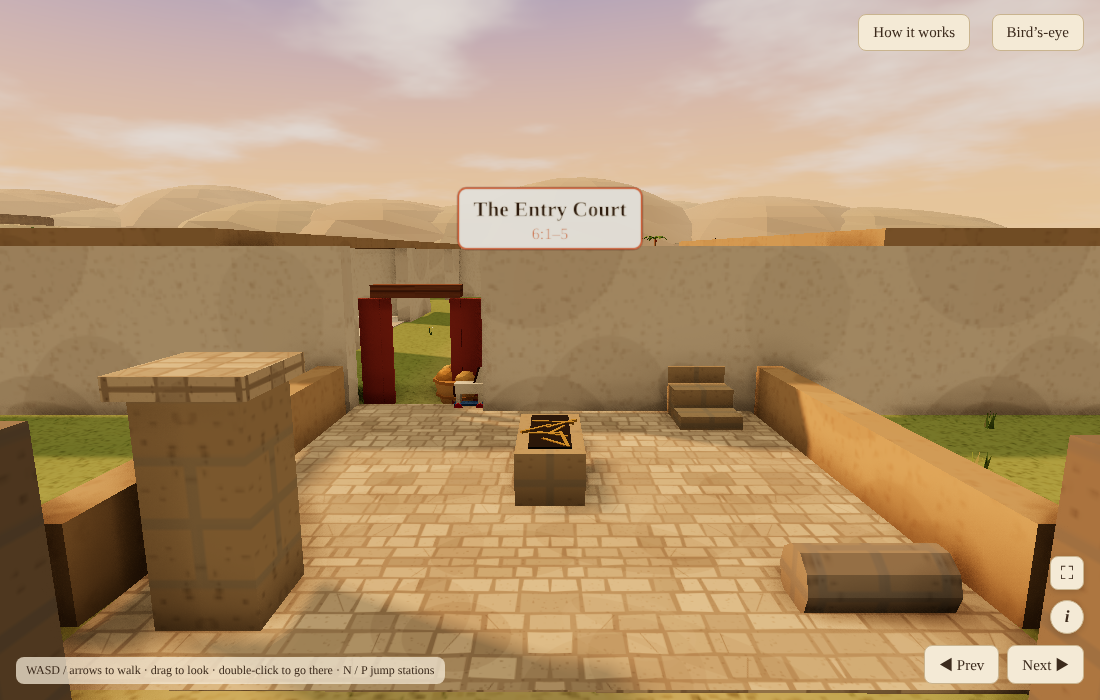
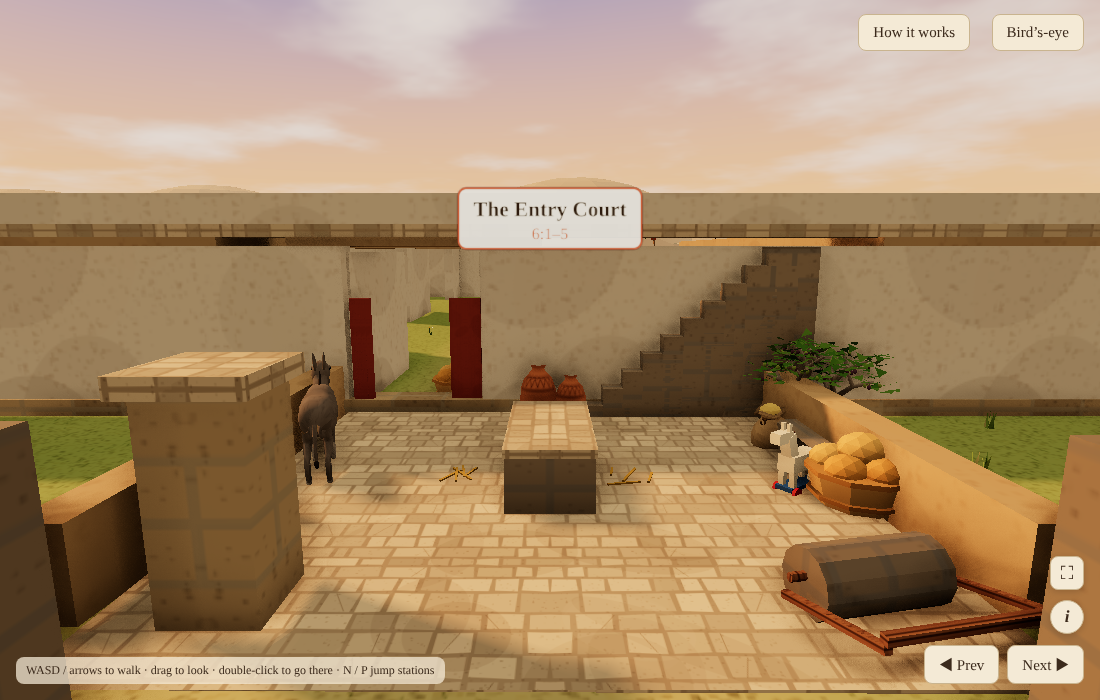
som-ltm: entry court rebuilt after room critic round 1 (house front, roof stair, donkey, manger, roller)
Claude-Session: https://claude.ai/code/session_011GTaBjBmrRYMxR8CbFEKPF

diff --git a/som-ltm/world/farm.js b/som-ltm/world/farm.js
@@ -39,14 +39,26 @@ const HOUSE_ROOFS = [];
 }
 // ---- 6.1 THE COURTYARD (6:1–5): gate pier · curtained doorway · stair to the roof · roof-roller · cistern lid ----
 defBuilder('som.court', (r, { ch }) => { const F = roomFrame(r), h = 2.6, sp = SQ(h).map(([f, s]) => F.at(f, s)), out = [];
+  // the paved court in front of the farmhouse; the house front is the farmhouse's north wall (f = 3.4), its door at s = -3.6 … -1.2
+  const stoneT = mat('somCourtStone', '#a39a8a'); stoneT.map = TEX.stone;
   { const g = atR(F, 0, 0); box(2 * h + 2, .08, 2 * h + 2, paleM, 0, 0, 0, g); }                                      // the paving
-  { const g = atR(F, -h, -h); box(.8, 1.9, .8, dryStone, 0, 0, 0, g); box(1, .18, 1, paleM, 0, 1.9, 0, g); out.push(ground(sp[0], 2.2)); }   // the gate's left pier, squared, with its cap
+  { const g = atR(F, -h, -h); box(.8, 1.9, .8, dryStone, 0, 0, 0, g); box(1, .18, 1, paleM, 0, 1.9, 0, g); out.push(ground(sp[0], 2.2)); }   // 1: the gate's left pier, squared, with its cap
   { for (const sd of [-1, 1]) { const g = atR(F, .4, sd * (h + 1.3)); box(.45, .9, 2 * h + 1.4, mudM, 0, 0, 0, g); } }   // low walls closing the court on either side
-  { const g = atR(F, h + .8, -h + .2); for (let k = 0; k < 6; k++) box(.2, 2, .06 + (k % 2) * .05, mat('somCurtain', '#a8523a'), (k < 3 ? -1.05 : .65) + (k % 3) * .2, .05, -.4 + k % 2 * .03, g); box(1.6, .22, .36, 'wood', 0, 2.1, -.15, g); out.push(ground(F.at(h + .45, -h + .2), .25)); }   // the doorway into the house, its curtain hanging
-  { const g = atR(F, h + .2, h); for (let k = 0; k < 6; k++) box(1, .3 * (k + 1), .55, dryStone, 0, 0, .5 - k * .55, g); out.push(ground(F.at(h + .2, h), 1.15)); }   // the stair up to the roof
-  { const g = atR(F, -h, h); const c = cyl(.28, .28, 1.2, 10, rockM, 0, .28, 0, g); c.rotation.z = Math.PI / 2; c.position.y = .28; out.push(ground(sp[3], .62)); }   // the roof-roller
-  { const g = atR(F, 0, 0, Math.PI / 2); box(1.6, .7, .8, dryStone, 0, 0, 0, g); box(1.3, .1, .5, darkM, 0, .62, 0, g); for (let k = 0; k < 8; k++) box(R(.3, .6), .03, .04, strawM, R(-.5, .5), .7, R(-.2, .2), g).rotation.y = R(0, 3); out.push({ x: F.x, z: F.z, y: F.y + .85 }); }   // a stone manger for the donkey
-  { const [x, z] = F.at(-h - 1.2, -h - 2.4); libAt('grey-donkey', x, z, F.yaw + 1.2); }   // the donkey by the gate
+  // the house front: a cornice and parapet along the flat roof line, a footing course, a roofed entry passage behind the door
+  { const g = atR(F, 3.4, 0); box(32.6, .22, .8, paleM, 2, 3.15, 0, g); box(32.6, .5, .3, plasterM, 2, 3.37, .25, g); box(32.6, .35, .62, dryStone, 2, -.05, 0, g); }
+  { const [px, pz] = F.at(5.4, -2.4), y = heightAt(px, pz); const pr = box(4.4, .3, 4.2, mat('somRoofEarth', '#b49a72'), px, y + 3, pz); pr.castShadow = true; HOUSE_ROOFS.push(pr);
+    for (const sd of [-3.7, -1.1]) { const [wx, wz] = F.at(5.4, sd); const w = box(.3, 3, 4, plasterM, wx, heightAt(wx, wz) - .1, wz); w.rotation.y = F.yaw; } }   // the dim entry passage you see through the door
+  { const g = atR(F, 3.25, -2.4); const cur = mat('somCurtain', '#a8523a'); cur.map = TEX.cloth; box(.55, 2.05, .05, cur, .9, .05, 0, g); for (let k = 0; k < 4; k++) box(.12, 2.05, .07, cur, -1.05 + k * .08, .05, .05, g).rotation.y = k * .2; cyl(.025, .025, 2.6, 5, 'wood', 0, 2.15, 0, g).rotation.z = Math.PI / 2; box(.12, .08, .1, mat('somCord', '#c8b48a'), -.9, 1.1, .02, g);
+    out.push(ground(F.at(3.0, -2.4), 1.2)); }   // 2: the doorway, its curtain half drawn and tied back on one side
+  { const n = 10; for (let k = 0; k < n; k++) { const [x, z] = F.at(2.95, 1.0 + k * .34); const st = box(.34, .3 * (k + 1), .85, stoneT, x, heightAt(x, z) - .02, z); st.rotation.y = F.yaw + Math.PI / 2; }
+    const [x2, z2] = F.at(2.95, 1.0 + n * .34 + .3); out.push(ground(F.at(2.95, 2.6), 1.7)); }   // 3: the stone stair rising along the house front to the flat roof
+  { const g = atR(F, -h, h, .2); const rm = mat('somRollerStone', '#8e877c'); rm.map = TEX.stone; const c = cyl(.3, .3, 1.15, 12, rm, 0, .3, 0, g); c.rotation.z = Math.PI / 2; c.position.y = .3;
+    for (const sd of [-1, 1]) { cyl(.04, .04, .14, 6, 'wood', sd * .64, .3, 0, g).rotation.z = Math.PI / 2; const arm = box(.06, .06, 1.1, 'wood', sd * .72, .32, .5, g); arm.rotation.x = -.25; } box(1.5, .07, .07, 'wood', 0, .52, 1.02, g); out.push(ground(sp[3], .68)); }   // 4: the stone roof-roller with its wooden handle frame
+  { const g = atR(F, 0, 0, Math.PI / 2); box(2.0, .75, 1.0, stoneT, 0, 0, 0, g); box(1.7, .12, .72, darkM, 0, .66, 0, g); box(2.04, .1, 1.04, paleM, 0, .72, 0, g).scale.set(1, 1, 1); for (let k = 0; k < 14; k++) box(R(.3, .6), .03, .04, strawM, R(-.75, .75), .74, R(-.25, .25), g).rotation.y = R(0, 3); out.push({ x: F.x, z: F.z, y: F.y + .95 }); }   // 5: a big carved stone manger with straw
+  { const [x, z] = F.at(.3, -h - .4); libAt('grey-donkey', x, z, F.yaw + Math.PI / 2, 1); const [tx, tz] = F.at(-.8, -h - .8); cyl(.06, .07, 1.1, 6, 'wood', tx, heightAt(tx, tz), tz); add(new THREE.TorusGeometry(.07, .015, 4, 8), ironM, tx, heightAt(tx, tz) + 1, tz); }   // the donkey tied to a post by the left wall
+  for (const [f, s, id, sc] of [[2.7, -.2, 'big-jar', 1], [2.6, .35, 'big-jar', .85], [1.4, 3.3, 'grain-sack', 1], [-.6, 3.4, 'bread-basket', 1], [2.4, 4.4, 'fig-tree', .8]]) { const [x, z] = F.at(f, s); libAt(id, x, z, R(0, 6), sc); }   // jars by the door, a sack, a basket, a fig tree in the corner
+  { const [x, z] = F.at(.5, 3.55); const b = box(1.8, .45, .45, stoneT, x, heightAt(x, z), z); b.rotation.y = F.yaw + Math.PI / 2; }   // a stone bench against the right wall
+  for (let k = 0; k < 12; k++) { const [x, z] = F.at(R(-.6, .6), R(-1.3, 1.3)); box(R(.2, .5), .02, .03, strawM, x, heightAt(x, z) + .09, z).rotation.y = R(0, 3); }   // straw scattered round the manger
   finishRoom(ch, r, F, out); });
 
 // ---- 6.2 THE INNER STOREROOM (6:6–10): open-fronted, cut into the terrace, its door swung back ----

diff --git a/som-ltm/refs/critic/SPECS.md b/som-ltm/refs/critic/SPECS.md
@@ -70,15 +70,17 @@ Spots are listed in the fixed order. P = a feature of the place itself; O = an o
 - spot 2 far-left: the tower's lookout window (P)
 - spot 3 far-right: the vine trellis (O)
 
-## Room 11: 6.1 The Courtyard (6:1–5) — screenshot: room-11.png
+## Room 11: 6.1 The Entry Court (6:1–5) — screenshot: room-11.png
+A paved court in front of a first-century Galilean farmhouse, seen from the farm's gate.
 - spot 1 near-left: the gate's left pier (P)
-- spot 2 far-left: the curtained doorway into the house (P)
-- spot 3 far-right: the stone stair up to the roof (P)
+- spot 2 far-left: the curtained front doorway into the house (P)
+- spot 3 far-right: the stone stair up to the flat roof (P)
 - spot 4 near-right: the stone roof-roller (O)
-- spot 5 centre: the cistern mouth with its round stone lid (O)
+- spot 5 centre: a stone manger for the donkey (O)
+- other: a donkey tethered by the gate
 
 ## Room 12: 6.2 The Inner Storeroom (6:6–10) — screenshot: room-12.png
-- spot 1 near-left: the doorway's stone threshold (P)
+- spot 1 near-left: the door, swung open (O)
 - spot 2 far-left: the row of tall storage jars (O)
 - spot 3 far-right: the bunches of dried herbs from a beam (O)
 - spot 4 near-right: the plastered wall shelf with small pots (P)
